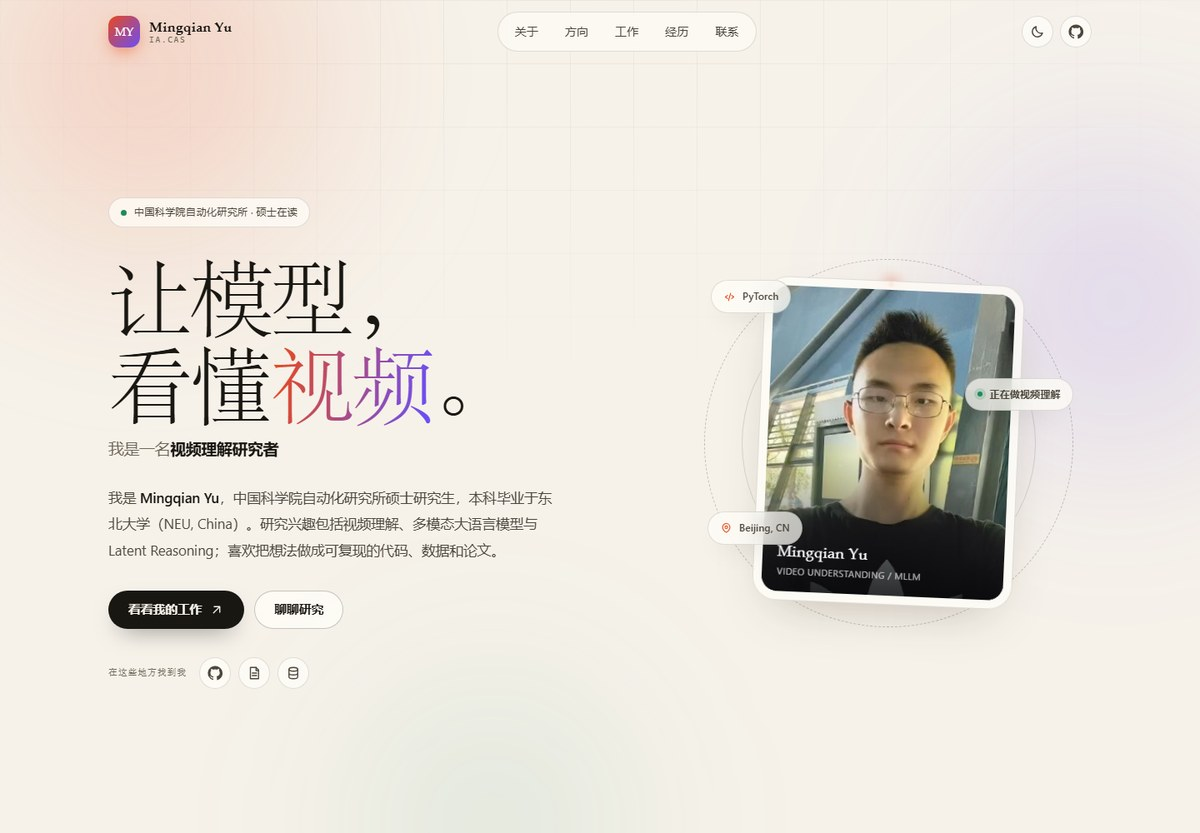
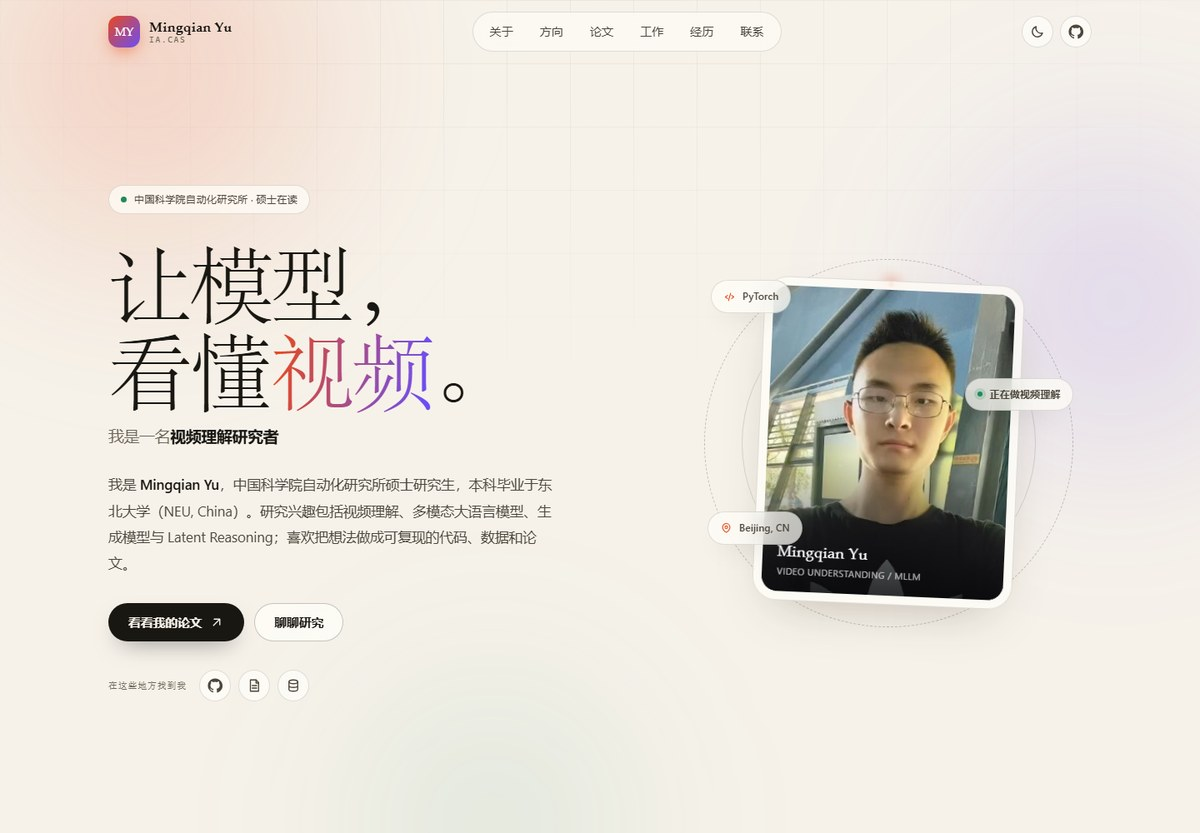
Add publications section with ContraFM-S2O

Changed region(s): [[0.0925, 0.2185, 0.4625, 0.8427], [0.4008, 0.0312, 0.6475, 0.0624]]

diff --git a/index.html b/index.html
@@ -6,15 +6,15 @@
   <meta name="color-scheme" content="light dark">
 
   <!-- ✏ 可修改：网页标题、描述、作者 -->
-  <title>Mingqian Yu · LLM Pretraining, Looped Transformer</title>
-  <meta name="description" content="Mingqian Yu，中国科学院自动化研究所硕士研究生">
+  <title>Mingqian Yu · 视频理解与多模态大模型</title>
+  <meta name="description" content="Mingqian Yu，中国科学院自动化研究所硕士研究生。研究视频理解、多模态大语言模型与高效推理，一作论文包括 T-LoopFormer 与 ContraFM-S2O。">
   <meta name="author" content="Mingqian Yu">
   <link rel="canonical" href="https://yumingqian1234.github.io/">
 
   <!-- 社交平台分享卡片 -->
   <meta property="og:type" content="website">
-  <meta property="og:title" content="Mingqian Yu">
-  <meta property="og:description" content="中国科学院自动化研究所硕士研究生，研究Looped Transformer">
+  <meta property="og:title" content="Mingqian Yu · 视频理解与多模态大模型">
+  <meta property="og:description" content="让模型真正看懂视频。中国科学院自动化研究所硕士研究生，一作论文 T-LoopFormer、ContraFM-S2O。">
   <meta property="og:url" content="https://yumingqian1234.github.io/">
   <meta property="og:image" content="https://yumingqian1234.github.io/assets/og.png">
   <meta name="twitter:card" content="summary_large_image">
@@ -46,10 +46,11 @@
         "@type": "Organization",
         "name": "Institute of Automation, Chinese Academy of Sciences"
       },
-      "description": "LLM Pretraining, Looped Transformer",
+      "description": "研究视频理解、多模态大语言模型与高效推理。",
       "sameAs": [
         "https://github.com/YuMingQian1234",
-        "https://arxiv.org/abs/2609.15160"
+        "https://arxiv.org/abs/2609.15160",
+        "https://arxiv.org/abs/2609.31378"
       ]
     }
   </script>
@@ -82,6 +83,7 @@
       <nav class="nav-links" aria-label="主导航">
         <a class="nav-link" href="#about">关于</a>
         <a class="nav-link" href="#skills">方向</a>
+        <a class="nav-link" href="#papers">论文</a>
         <a class="nav-link" href="#work">工作</a>
         <a class="nav-link" href="#journey">经历</a>
         <a class="nav-link" href="#contact">联系</a>
@@ -107,9 +109,10 @@
     <nav class="mobile-menu" id="mobileMenu" aria-label="移动端导航">
       <a href="#about"><span>01</span>关于</a>
       <a href="#skills"><span>02</span>方向</a>
-      <a href="#work"><span>03</span>工作</a>
-      <a href="#journey"><span>04</span>经历</a>
-      <a href="#contact"><span>05</span>联系</a>
+      <a href="#papers"><span>03</span>论文</a>
+      <a href="#work"><span>04</span>工作</a>
+      <a href="#journey"><span>05</span>经历</a>
+      <a href="#contact"><span>06</span>联系</a>
       <div class="mobile-menu-foot">
         <a href="https://github.com/YuMingQian1234" target="_blank" rel="noopener noreferrer">GitHub ↗</a>
         <a href="https://arxiv.org/abs/2609.15160" target="_blank" rel="noopener noreferrer">arXiv ↗</a>
@@ -124,12 +127,18 @@
         <p class="eyebrow reveal">
           <span class="status-dot" aria-hidden="true"></span>
           中国科学院自动化研究所 · 硕士在读
-        </p
+        </p>
+
+        <h1 class="reveal" style="--d: 1">
+          让模型，<br>
+          看懂<span class="gradient-text">视频</span>。
+        </h1>
 
         <p class="hero-role reveal" style="--d: 2">
-          <span class="sr-only">我是一名大模型学习者、开源贡献者。</span>
+          <span class="sr-only">我是一名视频理解研究者、多模态大模型学习者、开源贡献者。</span>
           <span aria-hidden="true">我是一名</span><span class="role-rotator" id="roleRotator" aria-hidden="true">
-            <span class="role">大模型学习者</span>
+            <span class="role is-active">视频理解研究者</span>
+            <span class="role">多模态大模型学习者</span>
             <span class="role">开源贡献者</span>
             <span class="role">终身学习者</span>
           </span>
@@ -137,12 +146,12 @@
 
         <!-- ✏ 可修改：首屏自我介绍 -->
         <p class="hero-desc reveal" style="--d: 3">
-          我是 <strong>Mingqian Yu</strong>，中国科学院自动化研究所硕士研究生，本科毕业于东北大学（NEU, China）。研究兴趣:LLM Pretraining, Looped Transformer；喜欢把想法做成可复现的代码、数据和论文。
+          我是 <strong>Mingqian Yu</strong>，中国科学院自动化研究所硕士研究生，本科毕业于东北大学（NEU, China）。研究兴趣包括视频理解、多模态大语言模型、生成模型与 Latent Reasoning；喜欢把想法做成可复现的代码、数据和论文。
         </p>
 
         <div class="hero-actions reveal" style="--d: 4">
-          <a class="btn btn-primary" href="#work">
-            看看我的工作
+          <a class="btn btn-primary" href="#papers">
+            看看我的论文
             <svg class="icon" viewBox="0 0 24 24" aria-hidden="true"><path d="M7 17 17 7M8 7h9v9"/></svg>
           </a>
           <a class="btn btn-ghost" href="#contact">聊聊研究</a>
@@ -183,7 +192,7 @@
           </div>
           <div class="float-chip chip-b">
             <span class="chip-dot" aria-hidden="true"></span>
-            正在做Looped Transformer
+            正在做视频理解
           </div>
           <div class="float-chip chip-c">
             <svg class="icon" viewBox="0 0 24 24" aria-hidden="true"><path d="M12 21s-7-4.4-7-10a7 7 0 0 1 14 0c0 5.6-7 10-7 10Z"/><circle cx="12" cy="11" r="2.5"/></svg>
@@ -201,7 +210,7 @@
           <span class="stat-label">个公开仓库</span>
         </div>
         <div class="stat reveal" style="--d: 1">
-          <span class="stat-num"><span data-count="1" data-suffix="">1</span></span>
+          <span class="stat-num"><span data-count="2" data-suffix="">2</span></span>
           <span class="stat-label">篇一作论文</span>
         </div>
         <div class="stat reveal" style="--d: 2">
@@ -238,11 +247,12 @@
         <div class="about-text">
           <p class="about-lead reveal">好的研究，既要能<span class="mark">解释问题</span>，也要能<span class="mark">跑起来</span>。</p>
           <!-- ✏ 可修改：关于我的段落 -->
-          <p class="reveal" style="--d: 1">我是 Mingqian Yu，中国科学院自动化研究所的硕士研究生，本科毕业于东北大学（NEU, China）。目前的研究兴趣集中在视频理解与多模态大语言模型。</p>
-          <p class="reveal" style="--d: 2">最近的一作工作 <strong>T-LoopFormer</strong> 研究 token 级别的弹性循环深度：让每个 token 自己决定循环多少次，并用递归级 KV Cache 加速自回归解码。另一条线是 <strong>SportsCom</strong> —— 一个大规模、多运动、多类别、多属性的体育解说数据集，用于评测 MLLM 对长视频叙事与战术的理解。</p>
-          <p class="reveal" style="--d: 3">我也在开源模型上做实践，复现和调试 VILA 系列视频语言模型。欢迎交流论文、数据集、实习机会或任何关于视频理解的想法。</p>
+          <p class="reveal" style="--d: 1">我是 Mingqian Yu，中国科学院自动化研究所的硕士研究生，本科毕业于东北大学（NEU, China）。目前的研究兴趣集中在视频理解、多模态大语言模型与生成模型。</p>
+          <p class="reveal" style="--d: 2">最近的一作工作包括 <strong>T-LoopFormer</strong> 与 <strong>ContraFM-S2O</strong>：前者研究 token 级别的弹性循环深度，让每个 token 自己决定循环多少次，并用递归级 KV Cache 加速自回归解码；后者用单步流匹配与对比学习做 SAR-to-optical 图像翻译，降低扩散模型的推理延迟。</p>
+          <p class="reveal" style="--d: 3">另一条线是 <strong>SportsCom</strong> —— 一个大规模、多运动、多类别、多属性的体育解说数据集，用于评测 MLLM 对长视频叙事与战术的理解。我也在开源模型上做实践，复现和调试 VILA 系列视频语言模型。</p>
+          <p class="reveal" style="--d: 4">欢迎交流论文、数据集、实习机会或任何关于视频理解与生成模型的想法。</p>
 
-          <div class="about-actions reveal" style="--d: 4">
+          <div class="about-actions reveal" style="--d: 5">
             <a class="text-link" href="https://github.com/YuMingQian1234" target="_blank" rel="noopener noreferrer">
               在 GitHub 上关注我
               <svg class="icon" viewBox="0 0 24 24" aria-hidden="true"><path d="M5 12h14M13 6l6 6-6 6"/></svg>
@@ -255,7 +265,7 @@
           <dl class="facts-list">
             <div><dt>坐标</dt><dd>中国 · 北京</dd></div>
             <div><dt>现在</dt><dd>中科院自动化所 · 硕士在读</dd></div>
-            <div><dt>关注</dt><dd>视频理解 / 多模态大模型 / 高效推理</dd></div>
+            <div><dt>关注</dt><dd>视频理解 / 多模态大模型 / 生成模型</dd></div>
             <div><dt>GitHub</dt><dd><a href="https://github.com/YuMingQian1234" target="_blank" rel="noopener noreferrer">@YuMingQian1234</a></dd></div>
             <div><dt>状态</dt><dd><span class="status-dot small" aria-hidden="true"></span>欢迎研究交流</dd></div>
           </dl>
@@ -263,6 +273,7 @@
           <div class="profile-links">
             <a href="https://github.com/YuMingQian1234" target="_blank" rel="noopener noreferrer"><span>GitHub</span><span>↗</span></a>
             <a href="https://arxiv.org/abs/2609.15160" target="_blank" rel="noopener noreferrer"><span>arXiv · T-LoopFormer</span><span>↗</span></a>
+            <a href="https://arxiv.org/abs/2609.31378" target="_blank" rel="noopener noreferrer"><span>arXiv · ContraFM-S2O</span><span>↗</span></a>
             <a href="https://huggingface.co/datasets/Yumq123/SportsCom" target="_blank" rel="noopener noreferrer"><span>SportsCom Dataset</span><span>↗</span></a>
           </div>
         </aside>
@@ -299,7 +310,7 @@
           <h3>模型与推理</h3>
           <p>关注效率与推理深度，而不只是参数规模。</p>
           <ul class="tag-list">
-            <li>PyTorch</li><li>Transformers</li><li>Looped Transformers</li><li>CUDA</li><li>DeepSpeed</li>
+            <li>PyTorch</li><li>Transformers</li><li>Looped Transformers</li><li>Flow Matching</li><li>CUDA</li>
           </ul>
         </article>
 
@@ -322,10 +333,59 @@
       </p>
     </section>
 
+    <!-- ============ 论文发表 ============ -->
+    <section class="section container" id="papers">
+      <div class="section-head reveal">
+        <span class="section-index">03</span>
+        <h2>论文发表</h2>
+        <span class="section-en">Publications</span>
+      </div>
+
+      <ol class="pub-list">
+        <!-- ✏ 可修改：论文列表 -->
+        <li class="pub-item reveal">
+          <span class="pub-index" aria-hidden="true">/ 01</span>
+          <div class="pub-main">
+            <div class="pub-badges">
+              <span class="pub-badge">第一作者</span>
+              <span class="pub-venue">arXiv preprint · cs.AI</span>
+            </div>
+            <h3 class="pub-title">T-LoopFormer: Token-Level Elastic-Depth Looped Transformers for Latent Reasoning with Dynamic Routing</h3>
+            <p class="pub-authors"><strong>Mingqian Yu</strong>, Wenpeng Zhang, Shaobo Cui, Peilin Zhao</p>
+            <p class="pub-meta"><span>arXiv:2609.15160</span><span>2026</span></p>
+          </div>
+          <div class="pub-links">
+            <a class="pub-link" href="https://arxiv.org/abs/2609.15160" target="_blank" rel="noopener noreferrer">arXiv <svg class="icon" viewBox="0 0 24 24" aria-hidden="true"><path d="M7 17 17 7M8 7h9v9"/></svg></a>
+            <a class="pub-link" href="https://arxiv.org/pdf/2609.15160" target="_blank" rel="noopener noreferrer">PDF <svg class="icon" viewBox="0 0 24 24" aria-hidden="true"><path d="M7 17 17 7M8 7h9v9"/></svg></a>
+            <a class="pub-link" href="https://github.com/YuMingQian1234/T-LoopFormer" target="_blank" rel="noopener noreferrer">代码 <svg class="icon" viewBox="0 0 24 24" aria-hidden="true"><path d="M7 17 17 7M8 7h9v9"/></svg></a>
+          </div>
+        </li>
+
+        <li class="pub-item reveal" style="--d: 1">
+          <span class="pub-index" aria-hidden="true">/ 02</span>
+          <div class="pub-main">
+            <div class="pub-badges">
+              <span class="pub-badge">第一作者</span>
+              <span class="pub-venue">arXiv preprint · cs.CV</span>
+            </div>
+            <h3 class="pub-title">ContraFM-S2O: Flow Matching-Based One-step SAR-to-Optical Image Translation Model with Contrastive Learning</h3>
+            <p class="pub-authors"><strong>Mingqian Yu</strong>, Wei-kuan Chiang, Qiurui Wang, Peilin Zhao</p>
+            <p class="pub-meta"><span>arXiv:2609.31378</span><span>2026</span></p>
+          </div>
+          <div class="pub-links">
+            <a class="pub-link" href="https://arxiv.org/abs/2609.31378" target="_blank" rel="noopener noreferrer">arXiv <svg class="icon" viewBox="0 0 24 24" aria-hidden="true"><path d="M7 17 17 7M8 7h9v9"/></svg></a>
+            <a class="pub-link" href="https://arxiv.org/pdf/2609.31378" target="_blank" rel="noopener noreferrer">PDF <svg class="icon" viewBox="0 0 24 24" aria-hidden="true"><path d="M7 17 17 7M8 7h9v9"/></svg></a>
+          </div>
+        </li>
+      </ol>
+
+      <p class="pub-note reveal">两篇均为一作论文，目前发表于 arXiv 预印本平台（cs.AI / cs.CV）。作者顺序与最新版本以 arXiv 页面为准。</p>
+    </section>
+
     <!-- ============ 代表工作 ============ -->
     <section class="section container" id="work">
       <div class="section-head reveal">
-        <span class="section-index">03</span>
+        <span class="section-index">04</span>
         <h2>代表工作</h2>
         <span class="section-en">Selected Work</span>
       </div>
@@ -410,7 +470,7 @@
     <!-- ============ 经历 ============ -->
     <section class="section container" id="journey">
       <div class="section-head reveal">
-        <span class="section-index">04</span>
+        <span class="section-index">05</span>
         <h2>一路走来</h2>
         <span class="section-en">Journey</span>
       </div>
@@ -487,7 +547,7 @@
             在 GitHub 找到我
             <svg class="icon" viewBox="0 0 24 24" aria-hidden="true"><path d="M7 17 17 7M8 7h9v9"/></svg>
           </a>
-          <a class="btn btn-ghost" href="https://arxiv.org/abs/2609.15160" target="_blank" rel="noopener noreferrer">查看 arXiv 论文</a>
+          <a class="btn btn-ghost" href="#papers">查看全部论文</a>
         </div>
 
         <div class="contact-socials">

diff --git a/assets/style.css b/assets/style.css
@@ -1068,6 +1068,105 @@ body.menu-open { overflow: hidden; }
   color: var(--accent);
 }
 
+/* ---------- 论文列表 ---------- */
+.pub-list {
+  margin: 0;
+  padding: 0;
+  list-style: none;
+  border-top: 1px solid var(--line);
+}
+.pub-item {
+  display: grid;
+  grid-template-columns: 46px minmax(0, 1fr) 176px;
+  gap: 22px;
+  align-items: start;
+  padding: 30px 0;
+  border-bottom: 1px solid var(--line);
+}
+.pub-index {
+  padding-top: 7px;
+  font-family: var(--mono);
+  font-size: 0.7rem;
+  letter-spacing: 0.08em;
+  color: var(--accent-ink);
+}
+.pub-badges {
+  display: flex;
+  flex-wrap: wrap;
+  align-items: center;
+  gap: 8px;
+  margin-bottom: 12px;
+}
+.pub-badge {
+  padding: 3px 9px;
+  border-radius: 999px;
+  font-size: 0.67rem;
+  font-weight: 600;
+  color: var(--accent-ink);
+  background: var(--accent-soft);
+}
+.pub-venue {
+  padding: 3px 9px;
+  border: 1px solid var(--line);
+  border-radius: 999px;
+  font-family: var(--mono);
+  font-size: 0.61rem;
+  letter-spacing: 0.04em;
+  color: var(--muted);
+}
+.pub-title {
+  max-width: 850px;
+  margin-bottom: 10px;
+  font-family: var(--serif);
+  font-size: clamp(1.22rem, 2vw, 1.55rem);
+  font-weight: 600;
+  line-height: 1.45;
+  letter-spacing: -0.015em;
+}
+.pub-authors {
+  margin-bottom: 9px;
+  font-size: 0.84rem;
+  line-height: 1.75;
+  color: var(--text-soft);
+}
+.pub-authors strong {
+  color: var(--text);
+  font-weight: 600;
+}
+.pub-meta {
+  display: flex;
+  flex-wrap: wrap;
+  gap: 6px 16px;
+  font-family: var(--mono);
+  font-size: 0.66rem;
+  color: var(--muted);
+}
+.pub-links {
+  display: flex;
+  flex-direction: column;
+  align-items: flex-start;
+  gap: 8px;
+  padding-top: 6px;
+}
+.pub-link {
+  display: inline-flex;
+  align-items: center;
+  gap: 4px;
+  font-size: 0.78rem;
+  font-weight: 600;
+  color: var(--text-soft);
+  text-decoration: none;
+  transition: color 0.25s ease;
+}
+.pub-link .icon { width: 13px; height: 13px; }
+.pub-link:hover { color: var(--accent-ink); }
+.pub-note {
+  margin-top: 20px;
+  font-size: 0.76rem;
+  line-height: 1.7;
+  color: var(--muted);
+}
+
 /* ---------- 作品 ---------- */
 .project-grid {
   display: grid;
@@ -1593,6 +1692,18 @@ body.menu-open { overflow: hidden; }
   .section-en { display: none; }
   .skill-grid { grid-template-columns: minmax(0, 1fr); }
   .skill-card > p { min-height: 0; }
+  .pub-item {
+    grid-template-columns: minmax(0, 1fr);
+    gap: 10px;
+    padding: 24px 0;
+  }
+  .pub-index { display: none; }
+  .pub-links {
+    flex-direction: row;
+    flex-wrap: wrap;
+    gap: 8px 18px;
+    padding-top: 2px;
+  }
   .timeline::before { left: 7px; }
   .timeline-item {
     grid-template-columns: minmax(0, 1fr);

diff --git a/README.md b/README.md
@@ -13,9 +13,26 @@ Mingqian Yu 的个人主页，部署在 GitHub Pages：
 - 首屏：个人介绍、研究关键词、GitHub / arXiv / Hugging Face 入口
 - 关于：教育背景、研究兴趣、代表工作
 - 研究方向：视频理解、模型与推理、数据与工程
+- 论文发表：一作论文列表（作者、发表平台、arXiv / PDF / 代码链接）
 - 代表工作：T-LoopFormer、SportsCom、VILA 实践
 - 经历：SJTU AI Lab、PKU MIPL、YueXin Tech 实习，以及教育经历
 - 联系：GitHub、arXiv、SportsCom 数据集
+
+## 论文发表
+
+目前两篇第一作者论文，均发布在 arXiv 预印本平台：
+
+1. **T-LoopFormer: Token-Level Elastic-Depth Looped Transformers for Latent Reasoning with Dynamic Routing**
+   - 作者：Mingqian Yu, Wenpeng Zhang, Shaobo Cui, Peilin Zhao
+   - 平台：arXiv preprint · cs.AI · 2026
+   - 链接：[arXiv:2609.15160](https://arxiv.org/abs/2609.15160) · [PDF](https://arxiv.org/pdf/2609.15160) · [代码](https://github.com/YuMingQian1234/T-LoopFormer)
+
+2. **ContraFM-S2O: Flow Matching-Based One-step SAR-to-Optical Image Translation Model with Contrastive Learning**
+   - 作者：Mingqian Yu, Wei-kuan Chiang, Qiurui Wang, Peilin Zhao
+   - 平台：arXiv preprint · cs.CV · 2026
+   - 链接：[arXiv:2609.31378](https://arxiv.org/abs/2609.31378) · [PDF](https://arxiv.org/pdf/2609.31378)
+
+> 如果论文后续被会议或期刊接收，直接修改 `index.html` 里 `#papers` 区块的 `pub-venue` 和链接即可。
 
 ## 目录结构
 
